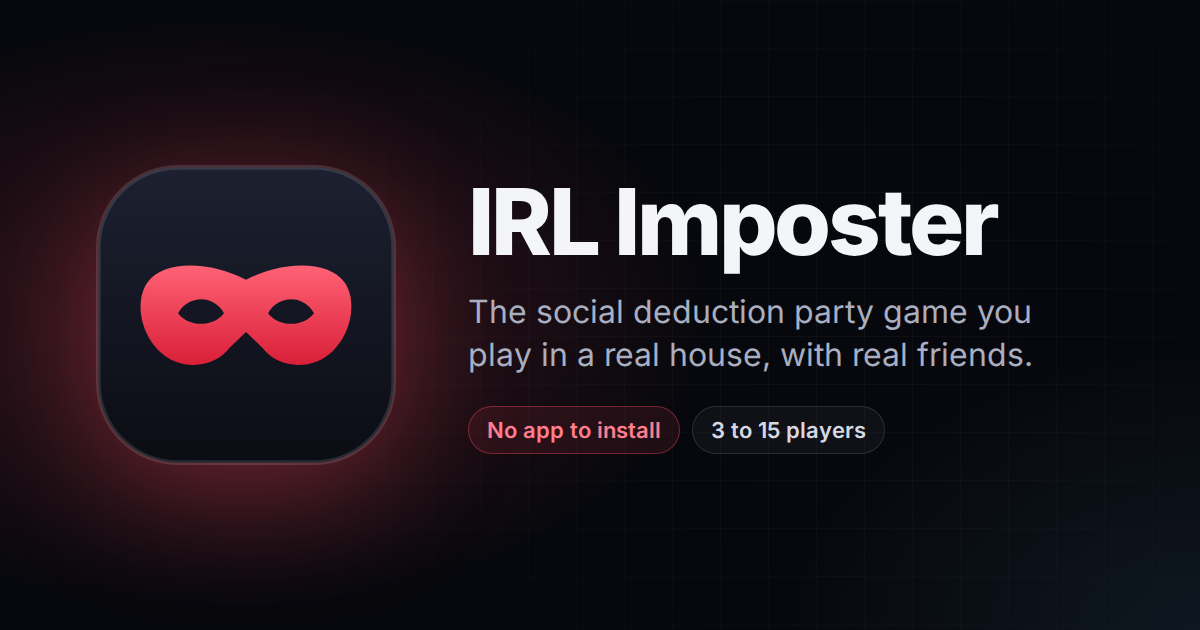
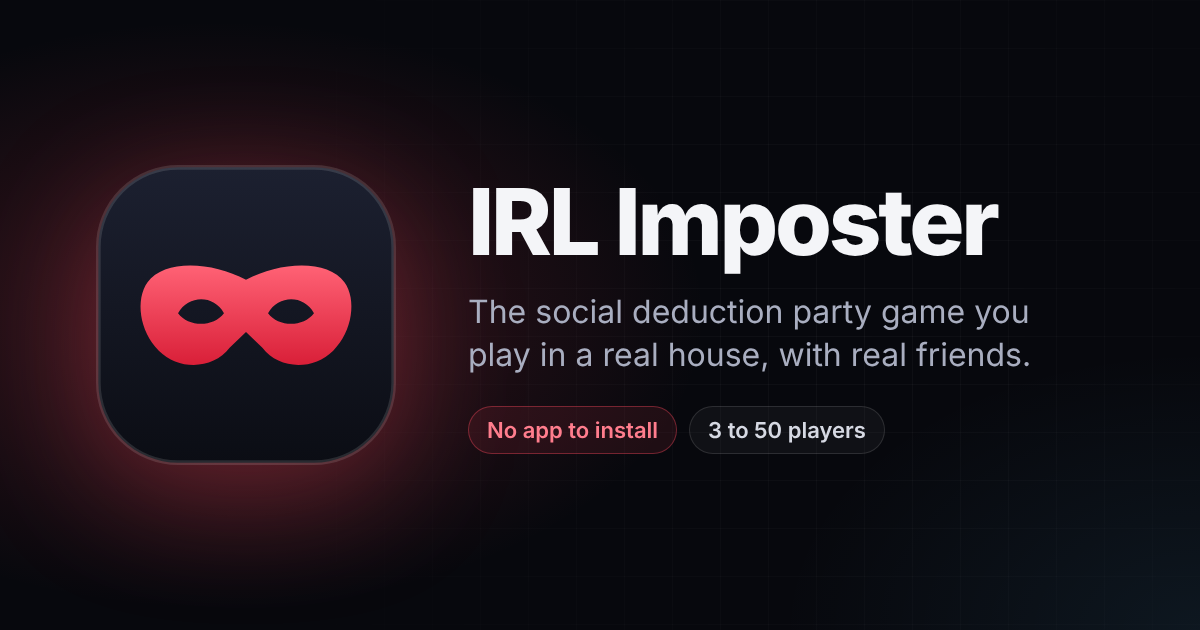
Support up to 50 players per game
- MAX_PLAYERS goes from 15 to 50.
- Room updates are bundled into one send per room every 40ms. Every
  action used to send a full personalized copy of the room to every
  phone at once; with 50 people acting together that made replies take
  up to 1.5s under load. Now the slowest reply in six simultaneous
  50-player games is 33ms.
- The number lock keypad sizes itself to the game: 1 to 15 in small
  games, growing to players + 5 (up to 1 to 50) so there are always
  enough different numbers. Targets, validation and the card all use it.
- 30 more built-in tasks (180 in all) so big games repeat less.
- Meetings with more than 12 players show a compact two-column vote
  grid with the living first.
- Copy and the link preview image now say 3 to 50 players.

Tests: new load-test (whole 50-player games at once: join, tasks, a
50-person number lock, a meeting and a 50-person vote) runs in CI with
4 games of 50. The sabotage test now uses each lock's own keypad size.

Claude-Session: https://claude.ai/code/session_01NWowCaSm44A5qrN8oBCb2w

diff --git a/shared/src/taskPools.ts b/shared/src/taskPools.ts
@@ -33,6 +33,11 @@ const raw: Record<RoomType, RawTask[]> = {
     { text: 'Sort the silverware in the drawer', visual: false },
     { text: 'Push a chair back under the table', visual: true },
     { text: 'Squeeze a lemon or lime into a glass of water', visual: true },
+    { text: 'Stack the clean mugs in one row', visual: true },
+    { text: 'Wipe the handle of every cupboard you can reach', visual: true },
+    { text: 'Line up the spice jars by height', visual: true },
+    { text: 'Check the freezer for ice', visual: false },
+    { text: 'Put a tea bag or coffee pod next to the kettle', visual: true },
   ],
   bathroom: [
     { text: 'Fold the hand towel neatly', visual: true },
@@ -60,6 +65,11 @@ const raw: Record<RoomType, RawTask[]> = {
     { text: 'Check the trash can is not overflowing', visual: false },
     { text: 'Spray and wipe the counter by the sink', visual: true },
     { text: 'Turn the exhaust fan on and off', visual: true },
+    { text: 'Line up the bottles on the shower shelf', visual: true },
+    { text: 'Wipe the tap until it shines', visual: true },
+    { text: 'Check the bin and empty it if full', visual: false },
+    { text: 'Hang the bath mat over the edge of the tub', visual: true },
+    { text: 'Count the toothbrushes in the room', visual: false },
   ],
   'living-room': [
     { text: 'Fluff two couch pillows', visual: true },
@@ -87,6 +97,11 @@ const raw: Record<RoomType, RawTask[]> = {
     { text: 'Fold the throw blanket over the couch arm', visual: true },
     { text: 'Check the batteries in a remote', visual: false },
     { text: 'Straighten a stack of coasters', visual: true },
+    { text: 'Stack the coasters in a neat pile', visual: true },
+    { text: 'Point every cushion corner upwards', visual: true },
+    { text: 'Find the TV remote and put it on the table', visual: true },
+    { text: 'Count the plugs in the wall sockets', visual: false },
+    { text: 'Fold any blanket left on the couch', visual: true },
   ],
   bedroom: [
     { text: 'Make the bed', visual: true },
@@ -114,6 +129,11 @@ const raw: Record<RoomType, RawTask[]> = {
     { text: 'Wipe down the nightstand', visual: true },
     { text: 'Check the closet light turns off', visual: false },
     { text: 'Straighten a picture frame on the wall', visual: true },
+    { text: 'Pair up two loose socks', visual: true },
+    { text: 'Close every wardrobe door', visual: true },
+    { text: 'Put a book on the bedside table', visual: true },
+    { text: 'Check the window is shut', visual: false },
+    { text: 'Line up the shoes by the bed', visual: true },
   ],
   outdoor: [
     { text: 'Check the mailbox', visual: true },
@@ -141,6 +161,11 @@ const raw: Record<RoomType, RawTask[]> = {
     { text: 'Confirm the recycling bin is out or put away', visual: false },
     { text: 'Check that a window screen is intact', visual: false },
     { text: 'Tap the mailbox twice for good luck', visual: true },
+    { text: 'Pick up three leaves and put them in the bin', visual: true },
+    { text: 'Straighten the outdoor chairs', visual: true },
+    { text: 'Check the letterbox', visual: false },
+    { text: 'Count the pot plants by the door', visual: false },
+    { text: 'Turn the outside light on and off', visual: true },
   ],
   'any-room': [
     { text: 'Do 10 jumping jacks', visual: true },
@@ -168,6 +193,11 @@ const raw: Record<RoomType, RawTask[]> = {
     { text: 'Find a pen and click it 5 times', visual: true },
     { text: "Recite today's date out loud", visual: false },
     { text: 'Wiggle your fingers above your head for 5 seconds', visual: true },
+    { text: 'Do ten star jumps', visual: true },
+    { text: 'Find something red and hold it up', visual: true },
+    { text: 'Touch every door handle in the room', visual: true },
+    { text: 'Spin around three times', visual: true },
+    { text: 'Count the light switches in the room', visual: false },
   ],
 };
 

diff --git a/client/src/screens/Meeting.tsx b/client/src/screens/Meeting.tsx
@@ -20,6 +20,12 @@ export default function Meeting() {
   const roundPlayers = room.players.filter((p) => !p.isSpectator);
   const spectators = room.players.filter((p) => p.isSpectator);
   const alivePlayers = roundPlayers.filter((p) => p.status === 'alive');
+  // Big games (up to 50) get a two-column vote grid with the living first, so
+  // the list doesn't turn into a long scroll.
+  const compactVotes = roundPlayers.length > 12;
+  const voteOrder = compactVotes
+    ? [...alivePlayers, ...roundPlayers.filter((p) => p.status !== 'alive')]
+    : roundPlayers;
   const hasVoted = votedFor !== null || (!!me && meeting.votedPlayerIds.includes(me.id));
   const canOverrule = game.mySpecialRole === 'judge' && iAmAlive && !game.specialRoleUsed && meeting.phase === 'voting';
   const isReport = meeting.reason === 'report';
@@ -130,7 +136,8 @@ export default function Meeting() {
                 <div className="section-header">
                   <span className="label">{hasVoted ? 'Vote locked in' : 'Who is the impostor?'}</span>
                 </div>
-                {roundPlayers.map((p) => {
+                <div className={`vote-list${compactVotes ? ' compact' : ''}`}>
+                {voteOrder.map((p) => {
                   const dead = p.status !== 'alive';
                   const voted = meeting.votedPlayerIds.includes(p.id);
                   const selected = votedFor === p.id;
@@ -138,10 +145,10 @@ export default function Meeting() {
                     return (
                       <button key={p.id} className="choice" disabled>
                         <Avatar name={p.name} dead />
-                        {p.name}
-                        <span className="choice-trailing small">
+                        <span className="truncate">{p.name}</span>
+                        <span className="choice-trailing small" aria-label="Dead">
                           <Skull size={15} />
-                          Dead
+                          {!compactVotes && 'Dead'}
                         </span>
                       </button>
                     );
@@ -159,16 +166,20 @@ export default function Meeting() {
                         {p.id === me?.id && <span className="faint"> (you)</span>}
                       </span>
                       <span className="choice-trailing">
-                        {voted && (
-                          <span className="pill pill-green">
-                            <Check size={12} strokeWidth={3} />
-                            Voted
-                          </span>
-                        )}
+                        {voted &&
+                          (compactVotes ? (
+                            <Check size={16} strokeWidth={3} className="text-green" aria-label="Voted" />
+                          ) : (
+                            <span className="pill pill-green">
+                              <Check size={12} strokeWidth={3} />
+                              Voted
+                            </span>
+                          ))}
                       </span>
                     </button>
                   );
                 })}
+                </div>
                 <button
                   className={`choice${votedFor === 'skip' ? ' selected' : ''}${hasVoted && votedFor !== 'skip' ? ' dimmed' : ''}`}
                   aria-pressed={votedFor === 'skip'}

diff --git a/client/src/components/SabotagePuzzleCard.tsx b/client/src/components/SabotagePuzzleCard.tsx
@@ -1,6 +1,6 @@
 import { useState } from 'react';
 import { Check, LockKeyhole, Zap } from 'lucide-react';
-import { NUMBER_LOCK_MAX, type NumbersPuzzle, type SabotagePuzzle, type WordsPuzzle } from '@irl-impostor/shared';
+import { type NumbersPuzzle, type SabotagePuzzle, type WordsPuzzle } from '@irl-impostor/shared';
 import { useGame } from '../state/GameProvider';
 
 function Letters({ word, solved }: { word: string; solved?: boolean }) {
@@ -113,7 +113,7 @@ function NumberLock({ puzzle }: { puzzle: NumbersPuzzle }) {
         <div className="stack-xs" style={{ flex: 1 }}>
           <h3 className="h2">Sabotage: number lock</h3>
           <p className="muted small">
-            Everyone alive picks a different number from 1 to {NUMBER_LOCK_MAX}. Together they must add up to the target.
+            Everyone alive picks a different number from 1 to {puzzle.maxNumber}. Together they must add up to the target.
             The clock drains 1.5x faster until you do.
           </p>
         </div>
@@ -151,7 +151,7 @@ function NumberLock({ puzzle }: { puzzle: NumbersPuzzle }) {
         <div className="stack-sm">
           <span className="label">{mine ? `Your number: ${mine}. Tap another to change it.` : 'Pick your number'}</span>
           <div className="lock-pad" role="group" aria-label="Pick your number">
-            {Array.from({ length: NUMBER_LOCK_MAX }, (_, i) => i + 1).map((n) => (
+            {Array.from({ length: puzzle.maxNumber }, (_, i) => i + 1).map((n) => (
               <button
                 key={n}
                 className={`lock-key${mine === n ? ' selected' : ''}`}

diff --git a/server/src/gameRoom.ts b/server/src/gameRoom.ts
@@ -18,7 +18,7 @@ import {
   pickTwoSabotageWords,
   pickNumberLockTarget,
   numberLockRange,
-  NUMBER_LOCK_MAX,
+  numberLockMaxFor,
   SabotageKind,
   SabotagePuzzle,
   PlayerRole,
@@ -625,7 +625,7 @@ export class GameRoom {
   }
 
   /**
-   * A player's number for the active number lock (1 to NUMBER_LOCK_MAX).
+   * A player's number for the active number lock (1 to numberLockMaxFor(players)).
    * They can change it until the lock opens.
    */
   submitSabotageNumber(playerId: string, value: number): { ok: true; solved: boolean } | { ok: false; error: string } {
@@ -634,8 +634,9 @@ export class GameRoom {
     if (!this.isInPlay(this.state.players.get(playerId))) {
       return { ok: false, error: 'Only living players can enter a number.' };
     }
-    if (!Number.isInteger(value) || value < 1 || value > NUMBER_LOCK_MAX) {
-      return { ok: false, error: `Pick a number from 1 to ${NUMBER_LOCK_MAX}.` };
+    const top = numberLockMaxFor(this.numberLockPlayers().length);
+    if (!Number.isInteger(value) || value < 1 || value > top) {
+      return { ok: false, error: `Pick a number from 1 to ${top}.` };
     }
     puzzle.entries[playerId] = value;
     this.touch();
@@ -1285,6 +1286,7 @@ export class GameRoom {
         .sort((a, b) => a - b),
       needed: players.length,
       myNumber: viewerId ? (puzzle.entries[viewerId] ?? null) : null,
+      maxNumber: numberLockMaxFor(players.length),
     };
   }
 

diff --git a/server/src/index.ts b/server/src/index.ts
@@ -13,6 +13,7 @@ import {
   FAILED_JOINS_PER_IP_PER_MINUTE,
   MAX_CONNECTIONS_PER_IP,
   MAX_PLAYERS,
+  ROOM_UPDATE_BATCH_MS,
   MAX_ROOMS,
   MAX_SOCKET_MESSAGE_BYTES,
   MAX_TOTAL_PHOTO_CHARS,
@@ -189,7 +190,24 @@ function announceGameOver(code: string, info: GameOverInfo) {
 }
 
 /** Each player gets their own view: impostors see real alive/dead status, crewmates don't (until a meeting). */
+/**
+ * Sends each player the room as they're allowed to see it. Calls within a
+ * short window are bundled into one send per room: in a 50-player game, a
+ * burst of actions (everyone ticking a task, everyone tapping a number) would
+ * otherwise mean a full personalized copy to every phone for every action.
+ */
+const pendingBroadcasts = new Map<string, GameRoom>();
 function broadcastRoomUpdate(room: GameRoom) {
+  const code = room.state.code;
+  if (pendingBroadcasts.has(code)) return;
+  pendingBroadcasts.set(code, room);
+  setTimeout(() => {
+    pendingBroadcasts.delete(code);
+    sendRoomUpdateNow(room);
+  }, ROOM_UPDATE_BATCH_MS);
+}
+
+function sendRoomUpdateNow(room: GameRoom) {
   for (const id of room.state.playerOrder) {
     const p = room.state.players.get(id);
     if (p?.socketId) {

diff --git a/shared/src/numberLock.ts b/shared/src/numberLock.ts
@@ -1,13 +1,24 @@
 import { NUMBER_LOCK_MAX } from './types';
 
 /**
+ * The keypad size for a lock with `players` people: 1 to 15 in small games,
+ * growing with the player count (always 5 spare numbers) up to
+ * NUMBER_LOCK_MAX, so there are always enough different numbers to go round
+ * without a huge keypad in a small game.
+ */
+export function numberLockMaxFor(players: number): number {
+  return Math.min(NUMBER_LOCK_MAX, Math.max(15, players + 5));
+}
+
+/**
  * The smallest and largest totals `players` people can make by each entering
- * a different number from 1 to NUMBER_LOCK_MAX.
+ * a different number from 1 to numberLockMaxFor(players).
  */
 export function numberLockRange(players: number): { min: number; max: number } {
-  const n = Math.max(1, Math.min(players, NUMBER_LOCK_MAX));
+  const top = numberLockMaxFor(players);
+  const n = Math.max(1, Math.min(players, top));
   const min = (n * (n + 1)) / 2;
-  const max = n * NUMBER_LOCK_MAX - (n * (n - 1)) / 2;
+  const max = n * top - (n * (n - 1)) / 2;
   return { min, max };
 }
 

diff --git a/shared/src/types.ts b/shared/src/types.ts
@@ -141,8 +141,8 @@ export interface MeetingResult {
 /** The two kinds of sabotage the impostor can pick from. */
 export type SabotageKind = 'words' | 'numbers';
 
-/** Highest number anyone can enter in a number lock. 15 so a full 15-player game always has enough different numbers. */
-export const NUMBER_LOCK_MAX = 15;
+/** The most a number lock keypad ever goes up to (the player cap). Each lock uses numberLockMaxFor(players), which is smaller for small games. */
+export const NUMBER_LOCK_MAX = 50;
 
 /** Scramble: two scrambled words the whole room can see and race to solve. Never carries the real words before they're solved. */
 export interface WordsPuzzle {
@@ -165,6 +165,8 @@ export interface NumbersPuzzle {
   needed: number;
   /** The viewer's own entry, if they've made one. */
   myNumber: number | null;
+  /** Highest number on this lock's keypad: 15 in small games, more in big ones. */
+  maxNumber: number;
 }
 
 /** The live sabotage minigame. */

diff --git a/client/src/components/HowToPlay.tsx b/client/src/components/HowToPlay.tsx
@@ -80,7 +80,7 @@ export default function HowToPlay({ onClose }: { onClose: () => void }) {
             <li>
               <strong>Sabotage:</strong> the game clock runs faster until the crew fixes it. Pick a{' '}
               <strong>scramble</strong> (two scrambled words anyone can solve) or a <strong>number lock</strong>{' '}
-              (everyone alive picks a different number from 1 to 15, and together they must hit a target).
+              (everyone alive picks a different number, and together they must hit a target).
             </li>
           </ul>
           <p>Eliminate and Vent are ready right away, then each needs 45 seconds to recharge.</p>

diff --git a/client/src/components/HomeLanding.tsx b/client/src/components/HomeLanding.tsx
@@ -14,7 +14,7 @@ const FAQ = [
     'Do we need to download an app?',
     "No. Everyone just opens irlimposter.com on their phone. You can add it to your home screen if you like, but you don't have to.",
   ],
-  ['How many people can play?', 'Between 3 and 15. It is at its best with 6 or more and a few rooms to spread out in.'],
+  ['How many people can play?', 'Between 3 and 50. It is at its best with 6 to 15 and a few rooms to spread out in.'],
   ['Does it work on iPhone and Android?', 'Yes, in any up-to-date phone browser, like Safari or Chrome.'],
   [
     'Why does it want my microphone?',

diff --git a/client/src/index.css b/client/src/index.css
@@ -2160,3 +2160,30 @@ img {
   padding-bottom: 14px;
   white-space: normal;
 }
+
+/* Vote list: one column normally, a tighter two-column grid for big games. */
+.vote-list {
+  display: flex;
+  flex-direction: column;
+  gap: 10px;
+}
+
+.vote-list.compact {
+  display: grid;
+  grid-template-columns: 1fr 1fr;
+  gap: 8px;
+}
+
+.vote-list.compact .choice {
+  min-height: 48px;
+  padding: 8px 10px;
+  gap: 8px;
+  font-size: 14.5px;
+  min-width: 0;
+}
+
+.vote-list.compact .avatar {
+  width: 28px;
+  height: 28px;
+  font-size: 12px;
+}

diff --git a/client/src/screens/Game.tsx b/client/src/screens/Game.tsx
@@ -513,7 +513,7 @@ export default function Game() {
                   'numbers',
                   LockKeyhole,
                   'Number lock',
-                  'Everyone alive must pick a different number from 1 to 15, adding up to a target. You can quietly mess it up.',
+                  'Everyone alive must pick a different number, and together they have to add up to a target. You can quietly mess it up.',
                 ],
               ] as const
             ).map(([kind, Icon, title, text]) => (

diff --git a/server/src/constants.ts b/server/src/constants.ts
@@ -3,7 +3,9 @@ export const MIN_TASKS_PER_PLAYER = 3;
 export const MAX_TASKS_PER_PLAYER = 8;
 
 export const MIN_PLAYERS = 3;
-export const MAX_PLAYERS = 15;
+export const MAX_PLAYERS = 50;
+/** Room updates within this window are bundled into one send per room. Short enough that nobody notices. */
+export const ROOM_UPDATE_BATCH_MS = 40;
 
 
 // Vent and kill are both available the instant a round starts; each only
